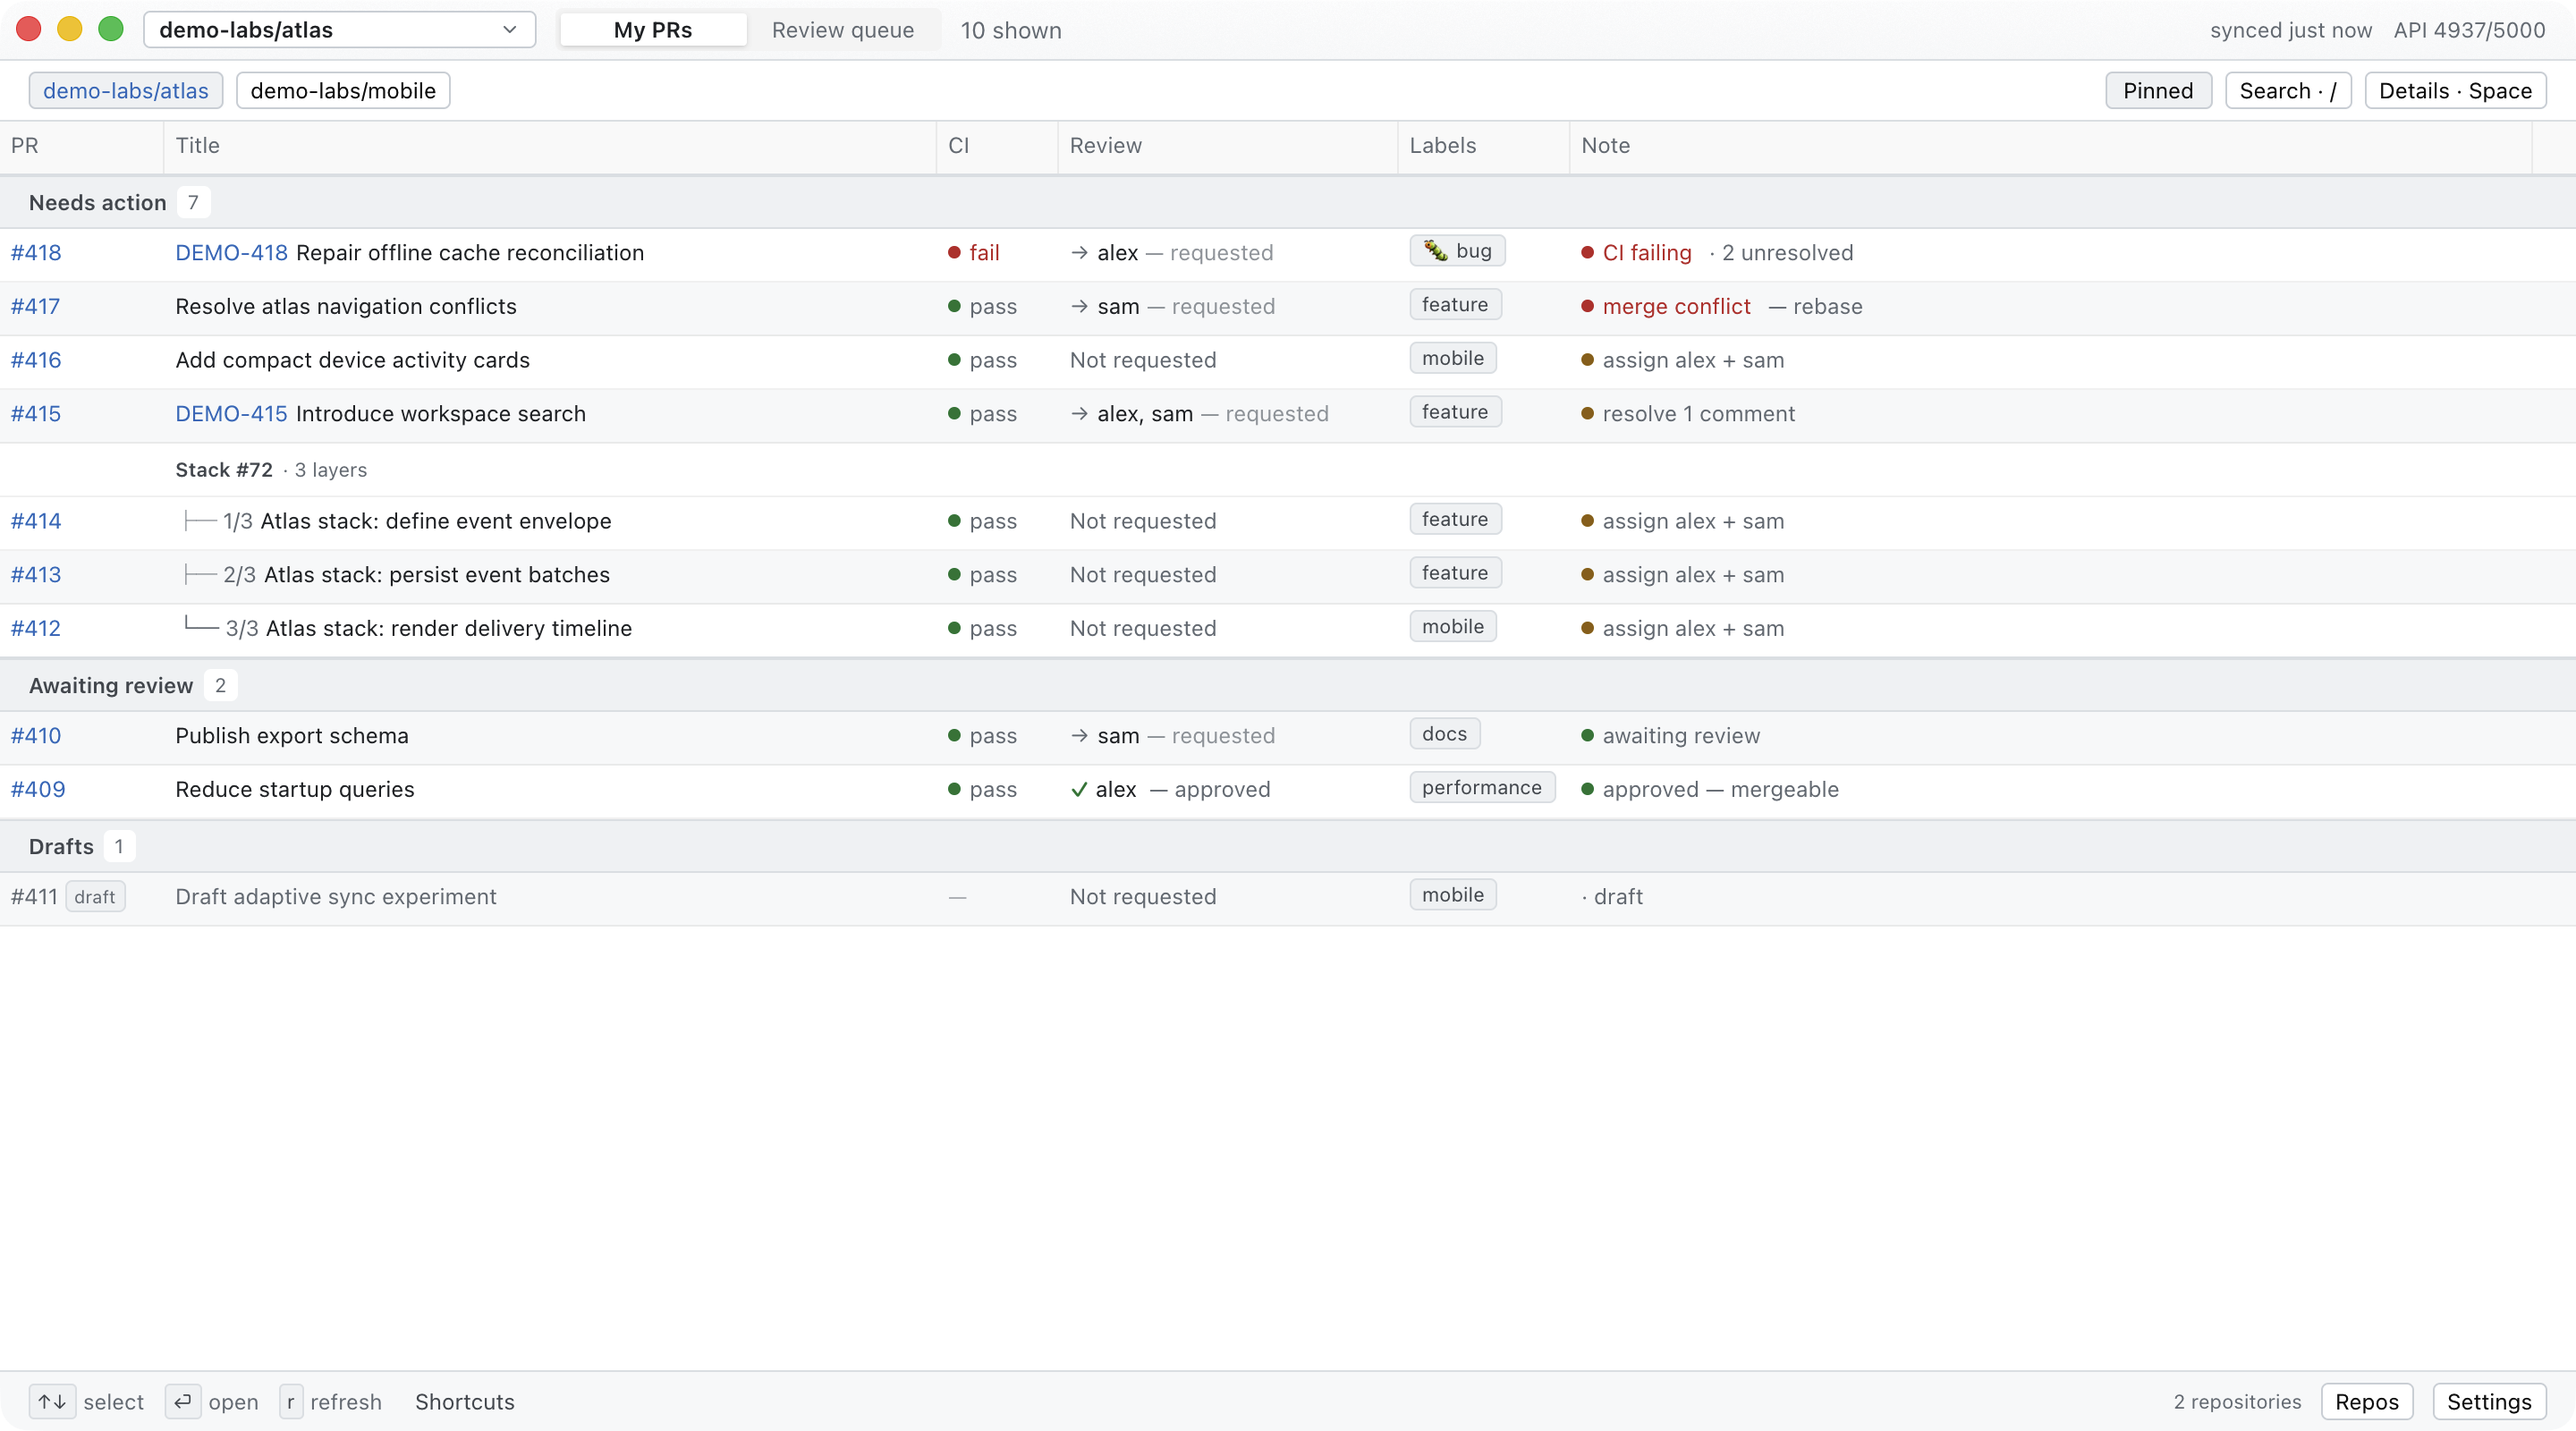
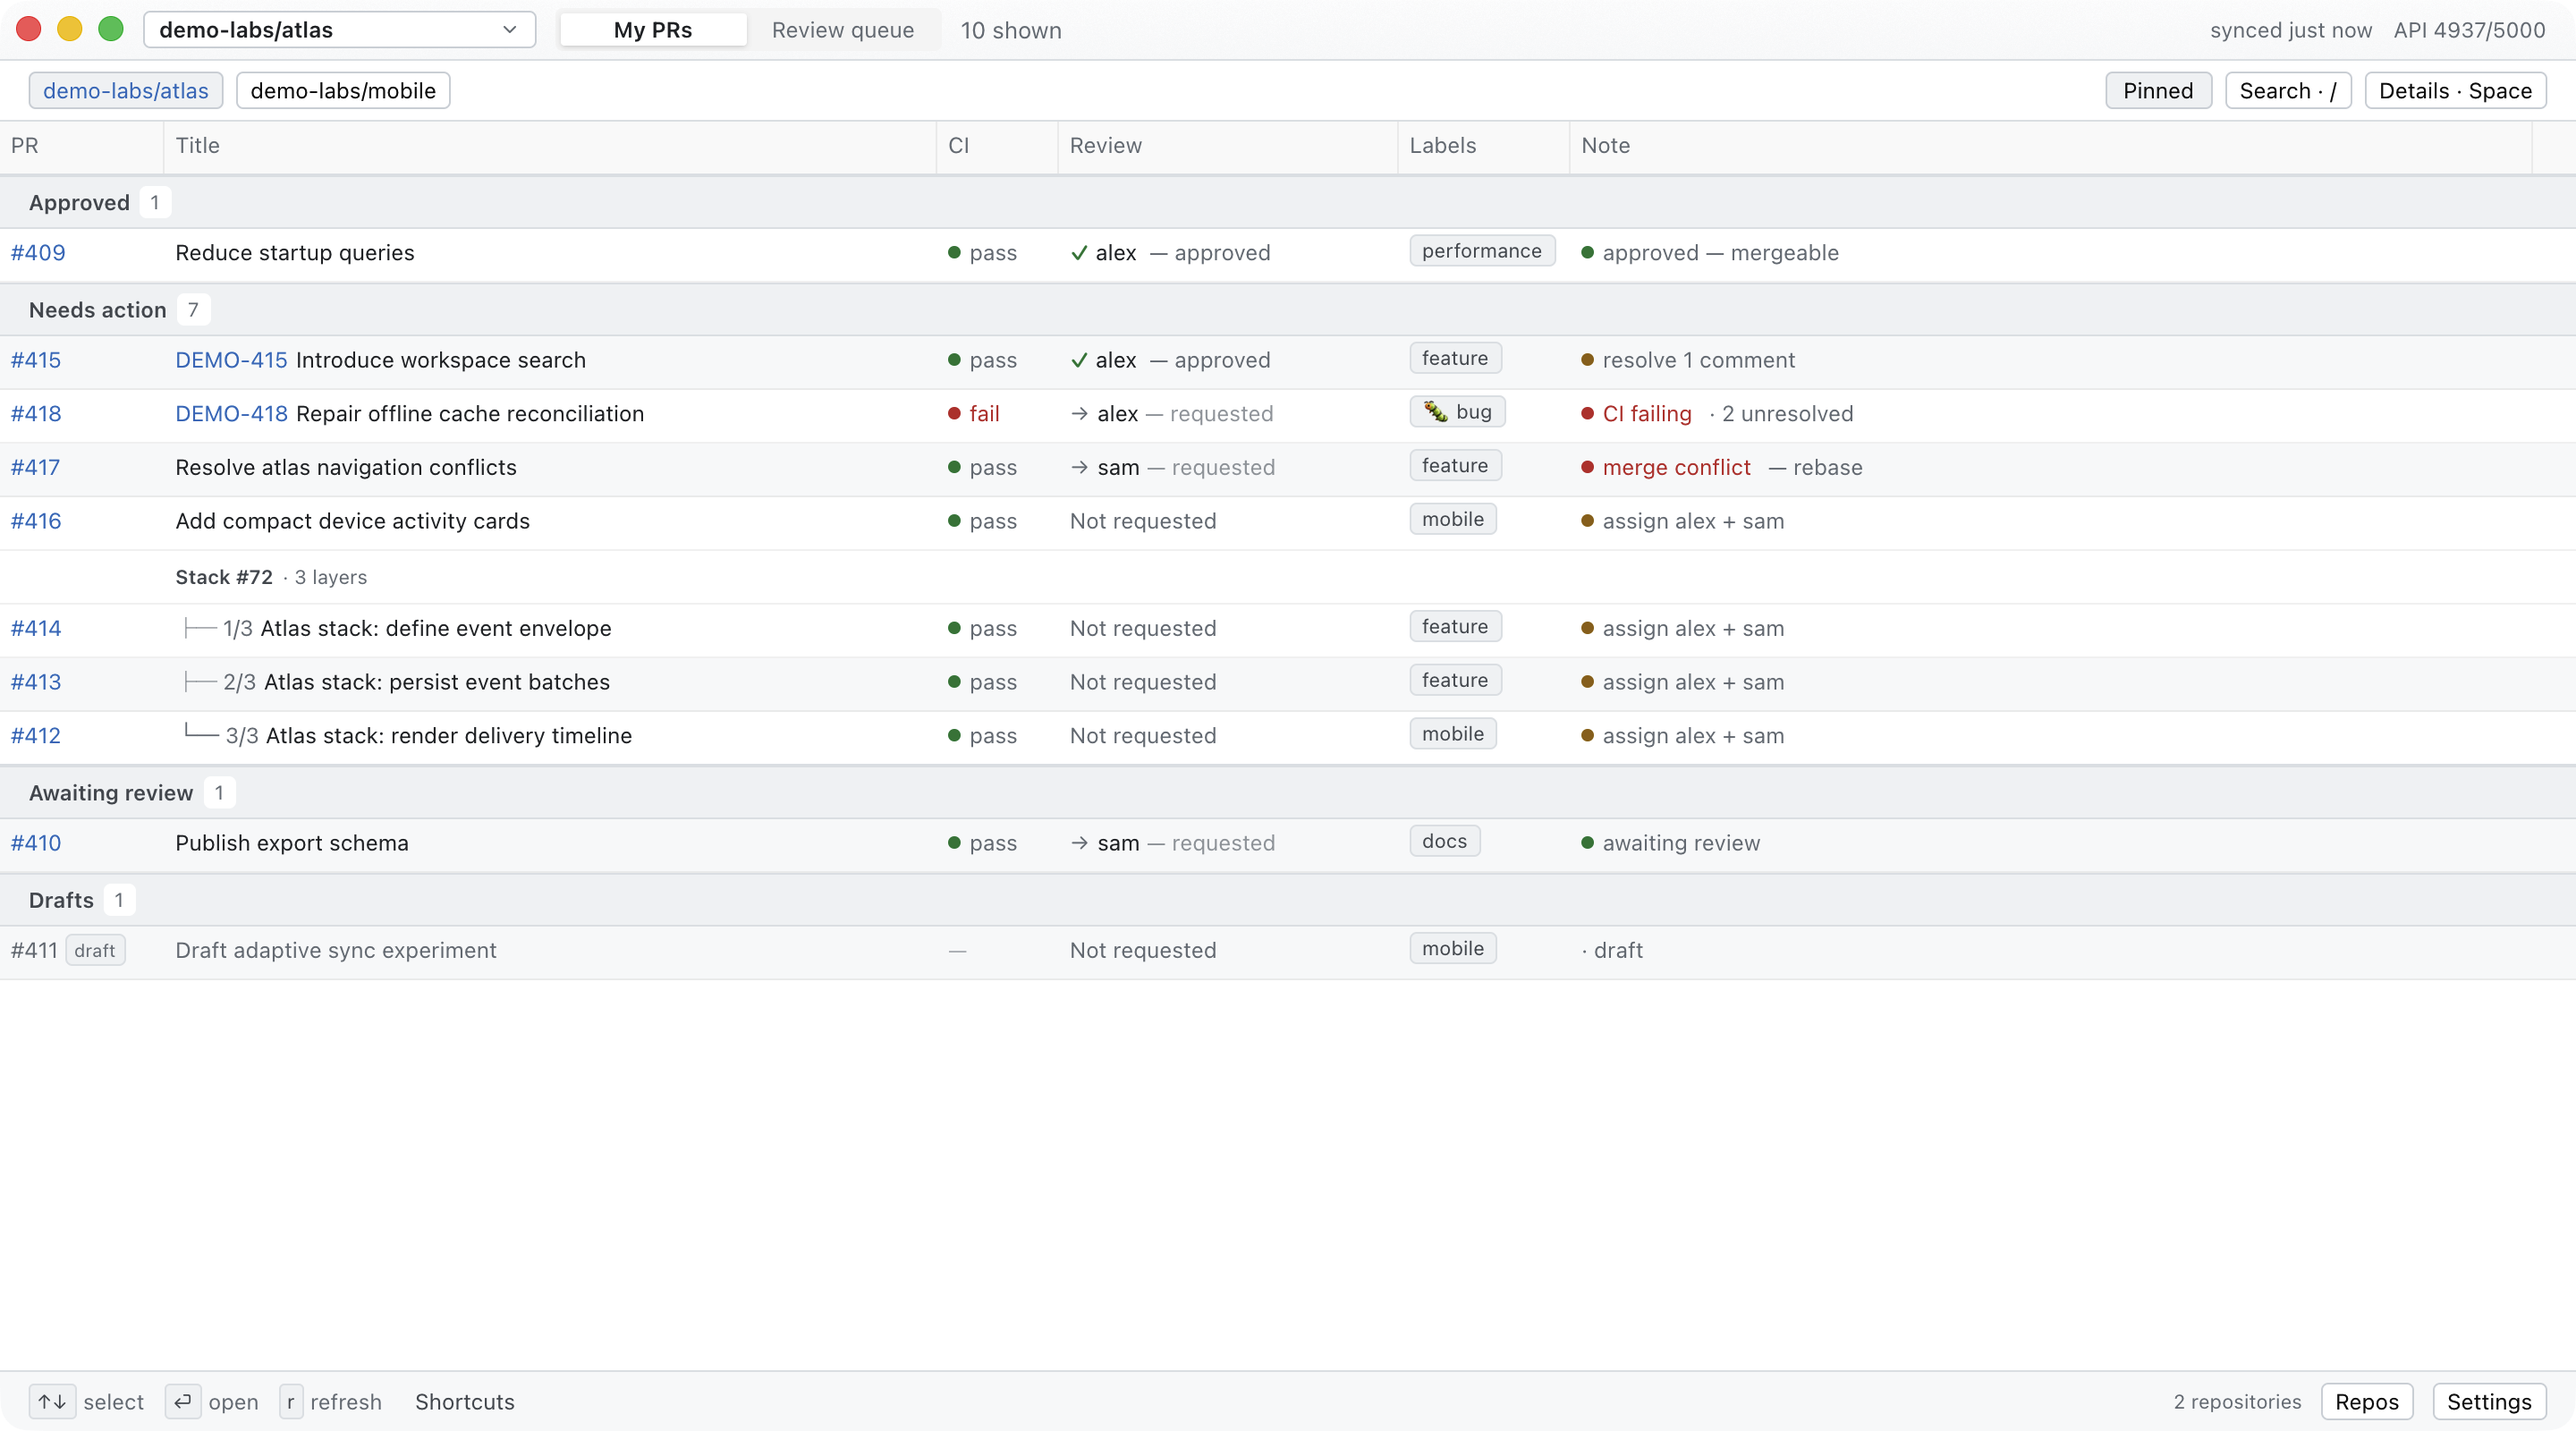
fix: prioritize approved PRs within Needs action

diff --git a/src/table.rs b/src/table.rs
@@ -345,19 +345,24 @@ impl BoardTableDelegate {
     }
 
     /// Split approved authored PRs out of Await without changing core categories
-    /// or row identities. Stable ordering preserves order within each section.
+    /// or row identities. Prioritize approved Action rows, keeping stack layers
+    /// together in dependency order and otherwise preserving stable ordering.
     fn rebuild_display(&mut self) {
         let mut display = Vec::with_capacity(self.rows.len() + 3);
         let mut order: Vec<usize> = (0..self.rows.len()).collect();
         order.sort_by_key(|&ix| {
             let row = &self.rows[ix];
-            match row.category {
+            let section = match row.category {
                 Category::Await if self.is_approved_section(row) => 0,
                 Category::Action | Category::Todo => 1,
                 Category::Available => 2,
                 Category::Await | Category::Done => 3,
                 Category::Draft => 4,
-            }
+            };
+            let approved_action = self.mode == Mode::Authored
+                && row.category == Category::Action
+                && row.review_state == ReviewState::Approved;
+            (section, !approved_action)
         });
         let mut i = 0;
         while i < order.len() {
@@ -1482,6 +1487,86 @@ mod tests {
         assert!(
             matches!(&review.display[0], DisplayRow::Header { label, .. } if label == "Reviewed")
         );
+    }
+
+    #[test]
+    fn approved_action_rows_lead_without_changing_notes_or_review_queue_order() {
+        let mut failing = row(2, Category::Action);
+        failing.review_state = ReviewState::Approved;
+        failing.blockers = vec![Blocker::CiFailing];
+        failing.note = "CI failing".into();
+        let mut conflict = row(4, Category::Action);
+        conflict.review_state = ReviewState::Approved;
+        conflict.blockers = vec![Blocker::MergeConflict, Blocker::UnresolvedComments(2)];
+        conflict.note = "merge conflict · 2 unresolved".into();
+        let rows = vec![
+            row(1, Category::Action),
+            failing,
+            row(3, Category::Action),
+            conflict,
+        ];
+        let mut d = BoardTableDelegate::new(Mode::Authored);
+        d.set_rows(rows.clone());
+        assert!(
+            matches!(&d.display[0], DisplayRow::Header { label, count, .. }
+            if label == "Needs action" && *count == Some(4))
+        );
+        assert_eq!(
+            (0..d.display_len())
+                .filter_map(|i| d.row(i).map(|r| r.number))
+                .collect::<Vec<_>>(),
+            vec![2, 4, 1, 3]
+        );
+        assert_eq!(d.row(1).unwrap().note, "CI failing");
+        assert_eq!(d.row(2).unwrap().blockers, rows[3].blockers);
+        assert_eq!(d.display_index_of_url(&rows[0].url), Some(3));
+
+        let mut review = BoardTableDelegate::new(Mode::Review);
+        review.set_rows(
+            rows.into_iter()
+                .map(|mut r| {
+                    r.category = Category::Todo;
+                    r
+                })
+                .collect(),
+        );
+        assert_eq!(
+            (0..review.display_len())
+                .filter_map(|i| review.row(i).map(|r| r.number))
+                .collect::<Vec<_>>(),
+            vec![1, 2, 3, 4]
+        );
+    }
+
+    #[test]
+    fn approved_action_promotes_its_stack_but_preserves_layer_order() {
+        let mut base = row(2, Category::Action);
+        base.stack = Some(prboard_core::board::StackInfo {
+            number: 70,
+            size: 2,
+            base_ref_name: "main".into(),
+            position: Some(1),
+        });
+        let mut top = row(4, Category::Action);
+        top.review_state = ReviewState::Approved;
+        top.stack = Some(prboard_core::board::StackInfo {
+            position: Some(2),
+            ..base.stack.clone().unwrap()
+        });
+        let mut d = BoardTableDelegate::new(Mode::Authored);
+        d.set_rows(vec![
+            row(1, Category::Action),
+            base,
+            row(3, Category::Action),
+            top,
+        ]);
+        assert_eq!(
+            (0..d.display_len())
+                .filter_map(|i| d.row(i).map(|r| r.number))
+                .collect::<Vec<_>>(),
+            vec![2, 4, 1, 3]
+        );
+        assert!(matches!(&d.display[1], DisplayRow::Header { label, .. } if label == "Stack #70"));
     }
 
     #[test]

diff --git a/DESIGN.md b/DESIGN.md
@@ -96,8 +96,9 @@ keycaps 3 px. Small radii are the native-Mac tell.
 - Category headings use sentence case, a stronger neutral band, and a small count badge.
   In My PRs, approved PRs without action blockers have their own **Approved** section
   at the top, before Needs action and Awaiting review. It uses the same neutral heading and count,
-  not a new badge or row tint. Approved PRs with blockers stay in Needs action; drafts
-  stay in Drafts. Review queue retains its Reviewed section.
+  not a new badge or row tint. Approved PRs with blockers lead Needs action. If one
+  belongs to a stack, promote that stack together and preserve dependency order.
+  Drafts stay in Drafts. Review queue retains its Reviewed section.
   Stack subheadings sit on the body surface aligned with Title, with quieter layer counts:
   `2 layers` when complete, `2 of 3 layers shown` when partial. Tree branches end with `└─`
   at the last visible layer, and a bottom rule separates the stack from ordinary PRs.

diff --git a/README.md b/README.md
@@ -8,8 +8,8 @@ threads, conflicts, labels, linked issues, and GitHub stacks into two focused
 queues with a plain-language **Note** on every row.
 
 - **My PRs** puts approved PRs first, followed by needs action, awaiting review,
-  and drafts. Approved PRs with action blockers stay in needs action; drafts
-  stay in drafts.
+  and drafts. Approved PRs with action blockers lead needs action, with stack
+  layers kept together in dependency order. Drafts stay in drafts.
 - **Review queue** separates PRs that request your review from PRs with no
   reviewer requested that are available for someone to pick up.
 - **Read-only by design:** prboard can open a PR or linked issue and copy its
